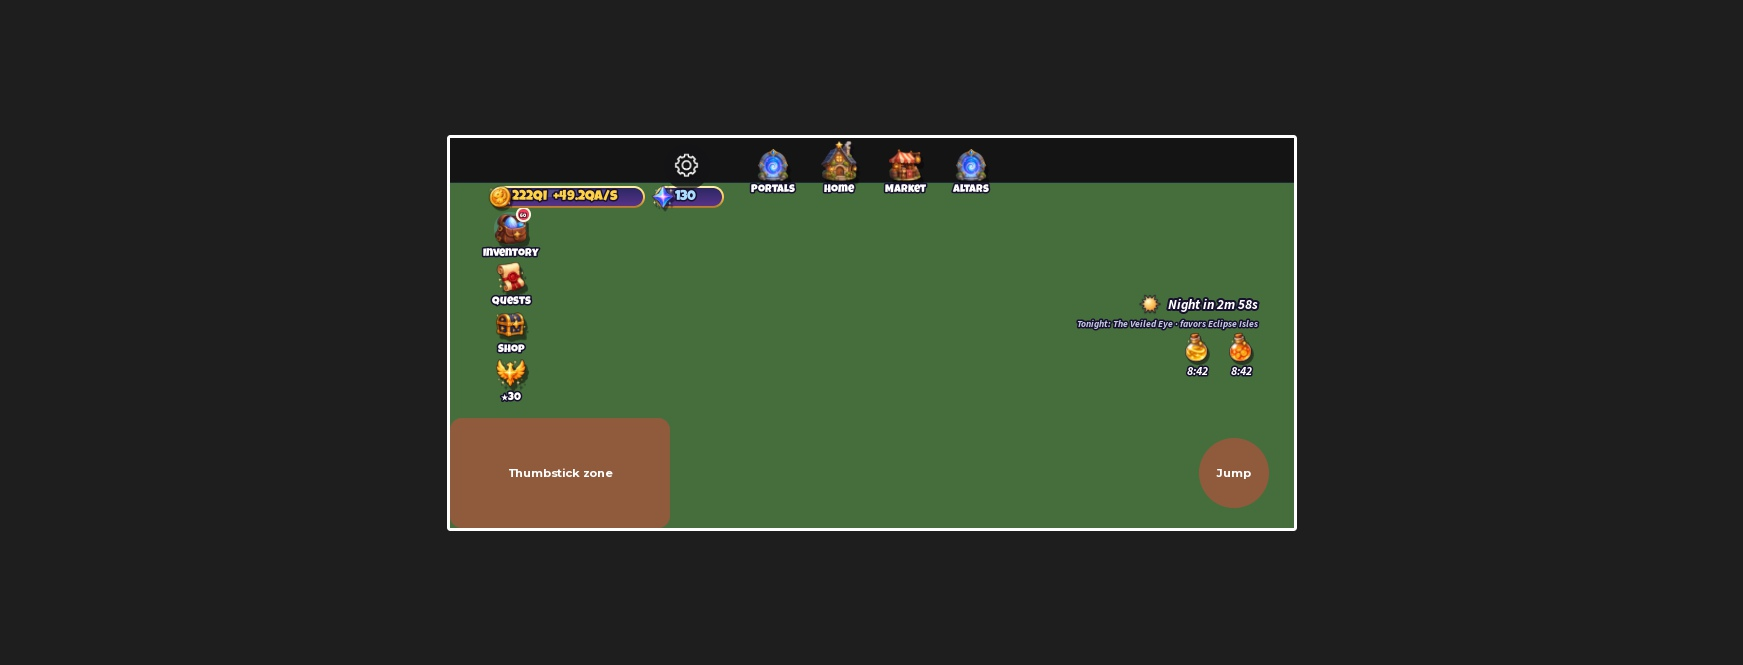
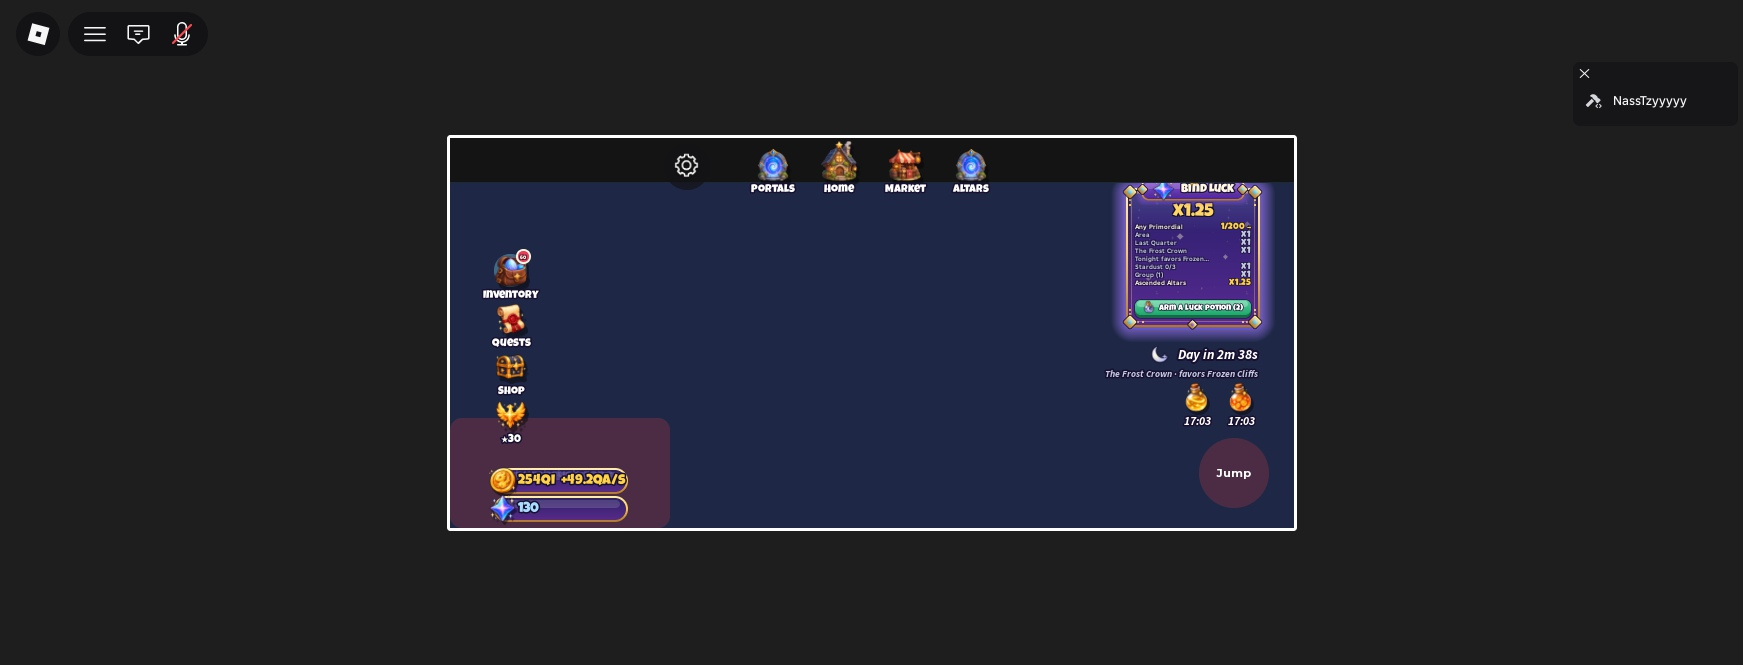
HUD: phone layout identical to PC (menu left-center, currency bottom-left stack, luck panel right), scaled down

Changed region(s): [[0.2478, 0.2707, 0.7435, 0.812], [0.0, 0.0301, 0.1239, 0.0602], [0.9294, 0.1504, 0.9604, 0.1805]]

diff --git a/CLAUDE.md b/CLAUDE.md
@@ -62,7 +62,7 @@ _Update this section as work progresses._
 | Weekly Spire leaderboard | Proposed (weekly update) |
 | Weekly event constellation (event-only dragon, single model) | Proposed (weekly update) |
 | Ascension (second prestige) | Proposed (design only, post-launch) |
-| UI | **HUD layout (2026-10-02, supersedes any older text below about the sky pill, bottom navigation or portrait):** landscape only; travel row top-center (Portals | Home | Market (+ Altars)); the 4 menu icons on the left (Inventory, Quests, Shop, Rebirth) with a `Sizes.LeftMargin` (64, phone 36) margin; currency pills bottom-left (phone: top row); **bottom-right timer stack** (`HudLayout.GetTimerStack`, `Sizes.RightMargin` 64 / phone 36, above the jump button on phones): the day/night timer row (`UI/TimerRow`: sun/moon icon + bold italic white text with a dark outline, no background, "Night in 1m 42s", gold at dusk) with a small caption under it ("Tonight: The Veiled Eye · favors Eclipse Isles", `DayNightController`, `Text.SkyHud`), then the potion timers as a horizontal row (icon with the time under each, `BoostController`); bottom-center stays free for the Dragon Hotbar. The sky pill and `UI/SkyPill` are gone. Every gui uses `ScreenInsets.CoreUISafeInsets` (travel row and top-bar buttons None); `HudLayout.GetUsableRect()` is the safe rect in screen pixels (the probe's own AbsolutePosition is inset-local, so the top-left `GuiService:GetGuiInset()` is added). Windows start under the travel row (`HudLayout.TopReserved`). Odds: pop-up lines are whole numbers (`OddsText.OneIn`), exact decimals only in the tap-for-details breakdown (`OddsText.OneInExact`). **UI renewal done** (master prompt 2026-09-28, checkpoints: 1 HUD, 2 windows, 3 world UI). **UI renewal part 2 done** (2026-09-29/30, style sheet approved; checkpoints: 1 top bar + notifications, 2 Inventory + windows, 3 Spire HUD + world UI). **Checkpoint 3:** the Spire card is a compact battle HUD at the bottom center (`SpireController`, sizes `UITheme.Sizes.Spire*`, motion `UITheme.Motion.Spire*`, words `Text.Spire`): a big floor badge on its top edge ("Floor 40", gold BOSS tag on boss floors) with the record small under it, your dragon's portrait vs the enemy's (`UI/DragonPicture`, VS in the middle) each with a health bar that drains over the fight (the server already decided the winner; the attacker lunges, the defender flinches, off with Low effects), no text log: each cleared floor pops a "Floor 39 cleared!" chip (first clears sparkle) and the drops fly as icons into the Inventory button (`HudLayout.GetMenuButton`; never the toast queue); Stop = small rose button, Hide (–) minimizes to a small floor badge (tap = open again); between climbs: your best dragon + Climb / Elevator. `SpireUpdate` now also sends `SpeciesId`/`Level`/`EnemyId` (Fight) and `Reward`/`Gold` (Won). Phones: the same HUD at `PhoneSpireScale`, bottom center between the thumbstick and jump. One thing at a time at stations: a station's board hides while its own prompt shows, and your own ★ badge hides while any prompt shows or near a Spire/merchant board (`StationFXController`, `WorldUI.Stations.HideBoardWithPrompt`/`BadgeHideRange`). Boards: "Best floor N" / "5 Stardust" + price. World panels get the faint sparkle pattern. Long toasts shrink their text to fit (never clip); tooltips hide when their target hides. **Checkpoint 2:** Dragons tab (`InventoryController`): cards tinted + glowing in the rarity color with a picture (`UI/DragonPicture`), rarity icon + level, name, "Rarity · Element", income big, ONE Upgrade button with the cost (tap = +1, hold = keeps buying 1 → 5 → 25 levels per request, `UITheme.Motion.Upgrade*`, above DragonService's 0.1 s limit), a small In roost / Resting switch; power/trait/grade in the tooltip; header "Equip best" = new `EquipBest` remote (`RoostService.onEquipBest`: no arguments, 1 s rate limit, ranks by gold/sec, fills up to the slot count, clears the equipped dragons' "taken out" marks, toast `Text.Dragons.Equipped`). Potions tab: big cards (picture, count badge, one line, status, one button; Arm = jade). Collection: header card (income bonus big, found count, milestone bar; rules in the tooltip), bigger rarity-tinted cells, Star Atlas chips. Quests: bigger streak days (today gold, claimed jade), title-font quests with bigger rewards/bars. Shop: 2x2 big cards (short line `Text.Shop.Short`, full description in the tooltip). Luck panel: one row per factor (x1 dimmed). Rune Shrine / Forge rows show the dragon's picture; button "Inscribe · 1" with the rune/stone icon. Settings rows in the title font. Currency pills violet with a gold border; red badges brighter and pop on change; progress bars gold-rimmed and glossy. Phone cards drawn at `Sizes.PhoneCardScale`. Windows use the full height below the top bar (up to their MaxSize). Part 2 kit: panels are indigo -> violet (`Colors.PanelV2*`) with a faint sparkle pattern (`Art.PanelPattern`) and a soft outer glow (`Style.Glow`, `Art.Glow` 9-sliced); the banner's dark ribbon ends are gone (gold end gems + glow); chunky 3D buttons (`UI/Button`: face on a darker bottom edge, bounce/squish, Luckiest Guy label; jade = go/buy, gold = upgrade, rose = stop/close, blue = neutral, grey = disabled); cards tinted + glowing in their accent (`Style.CardLook`), tabs `Style.TabLook`; windows fade + pop in. Art sources `tools/ui_art/gen.py` -> `assets/ui/` (sparkles, glow, rays, stand-in sun/moon). **Top bar:** travel buttons get equal slots (`Sizes.TravelSlot`, labels never clip); the sky pill (`UI/SkyPill`, `DayNightController`) sits under them with a gap (`HudLayout.SkyPillTop`): big sun/moon, "Night in 3:31" big, at night a small constellation + favored-area line, a thin progress bar, glows/pulses in the dusk-warning seconds (wording `Text.SkyHud` Big*/Small*). Windows (`HudLayout.layoutPopups`) and toasts start below `HudLayout.TopReserved()` (top bar + pill), so they never cover them; the travel row and pill stay visible on phones. **Notifications** (`NotificationController`): one toast queue (at most `UITheme.Toasts.MaxVisible` = 2 on screen, the same text merges into "x3" and restarts, announcements/rewards/errors jump the queue); toasts are pills with a big icon (`UI/Toast`). Big moments show a centered reward pop-up (`UI/RewardPopup`: turning rays, banner, big picture (`UI/DragonPicture`: the dragon's model in a ViewportFrame, or its rarity icon), name, tag chip, "Awesome!", sparkle burst; one at a time, queued; closes by itself after 8 s; the dim leaves the top bar clear): new dragon (bind, starter), evolution, rebirth, sanctuary tier, rare constellation. The server sends them as `Notify(player, text, "moment", payload)` / `Announcement(text, payload)` with `payload.Moment` (DragonService, RebirthService, DayNightService); the client also calls `NotificationController:Moment` (BindingController, SanctuaryTierController). Wording `Text.Moments`. Low effects: fewer sparkles, no turning rays. HUD now: big standalone icons with a drop shadow and a Luckiest Guy label (`UI/HudIcon`: hover bounce + glow, press squish, tap sparkles, red badge, pulse, "ready" = gold glow + hop + sparkle ring + READY! tag, calm = progress ring of dots). Left column (`HudLayout`, `UITheme.Menu`): Inventory, Quests, Shop, Rebirth (READY! when affordable, else % to the next rebirth). **Inventory** = one window with tabs (`InventoryWindow`, `UITheme.InventoryTabs`): Dragons (`InventoryController`), Potions (`BoostController`), Items (`ItemsController`: Wyrm Runes, Dragonstones, Stardust; wording `Config/Text.Items`), Collection (`IndexController`: Index + Star Atlas); tab badges add up on the Inventory icon. Settings = a gear right after Roblox's own top-bar buttons (`HudLayout.AddTopbarButton`, lined up with `GuiService.TopbarInset`; Roblox's own settings image). Top-center: the travel row and under it the slim day/night pill (`DayNightController`, `Text.SkyHud` Pill*). Bottom-right: active potions as their own icons with the time under each (tap = Potions tab; phones: above the jump button, max `PhoneMaxTimers` then "+N"). Currency pills restyled (big icon over a translucent bar, title-font value): bottom-left on PC, one row under the top bar on phones. HUD sizes/motion in `UITheme.Sizes` (HudIcon..., Travel..., SkyPill, PotionTimer) and `UITheme.Motion` (Icon..., Ready..., ProgressDots). Painted icons for Inventory (satchel), Home (cottage), Portals, Market (tent), Items and Collection (star atlas) in `UITheme.Icons` (sheet `assets/new_icons.png`, cut to `assets/icons/`). **Windows (checkpoint 2):** one frame for every window and station panel (`Style.PanelLook`): navy glass (`Colors.Glass*`, `GlassTransparency`) with a soft light across the top, a gold border shaded light to dark (`Style.GoldBorder`) with a thin gold line inside, a gold diamond with a jewel on each corner plus gold beads (`Style.Ornament`), a small ornament mid-bottom, sparkles. `UI/Window`: a jewel title banner (`UI/Banner`: amethyst ribbon, gold border, ribbon ends, a slowly wobbling gold star on top, the painted icon popping out on the left, title in Luckiest Guy) hangs on the top edge; a big round ruby close button on the top-right corner (the X turns on hover); pop-in plus a sparkle burst out of the banner (`Style.SparkleBurst`). Sizes in `UITheme.Sizes` (Border, CornerOrnament, Banner, BannerStar, CloseButton, WindowPadding...), motion in `UITheme.Motion` (OpenSparkles, BannerStarSpin, CloseHoverTurn). Cards (`Style.CardLook`) are a lighter glass with a soft gold outline; buttons have a glossy top; Inventory tabs are navy glass, the open one amethyst with a gold border; toasts are navy glass with a gold border (under the day/night pill on PC). The Luck panel and the Spire card carry the same banner ("Bind Luck" with the luck total big under it; "Dragon Spire"). The Rebirth window is a big ★ heading, a cost card (gold icon, bar toward the cost), reward chips (income, level cap, new area) and big Rebirth! / Not yet buttons (wording `Config/Text.Rebirth`). The Rune Shrine / Dragonstone Forge window has two columns: dragons (rarity icon, level, current trait/grade) and the rune/stone count, the chosen dragon, a big button and a grid of chances colored by tier (`Text.RuneShrine/DragonstoneForge` Owned/Chances). Settings uses sliding switches. The binding ceremony shows the dragon's name on a rarity-colored banner with a Rarity · Element tag and sparkles (lower middle of the screen). Phones: windows are 94% x 88% of the screen, and while one is open the menu, currencies, travel row and day/night pill hide (`HudLayout.HideWithPopups`). **World UI (checkpoint 3):** the window look made small (`Style.WorldPanel`, `UITheme.WorldPanel`: navy glass, gold border, gold diamonds on the ends, optional little star on top; `Style.Outline` = title-font text with a dark outline). Prompts (`PromptController`): a round amethyst key badge with a gold ring that fills gold while held, the action in the title font, a bounce on appear and sparkles when used. Boards (`UI/WorldBoard`: stand levels, rune/stone counts, merchant price, Spire record) have the star on top and the icon popping out; the upgrade stand's board hides while its own buy prompt shows (`UpgradeStandController`, so it never covers the E prompt), and the two stand boards sit 6 studs out from the gate's center line (`WorldUI.UpgradeStands.BoardSideOffset`). Owner banners (`RoostFXController`), portal names (above the arch art) and the portal lock use the same panel; "+gold" pops, dragon nameplates and the ★ rebirth badge use the title font with an outline (`RoostService`, `RebirthService`). Themed UI kit. Look (Kyle's jewel-tone restyle, 2026-09-27): jade/rose/stargold/dusk-blue buttons with an antique-gold outline that lights up on hover, menu tiles on one twilight surface with a thin colored stripe, warm-white text; toasts draw above windows. World text: `UITheme.WorldLabels` (every BillboardGui: 40-stud MaxDistance, 80 for the ★ rebirth badge, not AlwaysOnTop, sizes); empty roost signs are hidden. Designer-editable wording in `Config/Text` (station words, results, tips; `Text.Format` fills `{placeholders}`). `Config/UITheme` holds every color (incl. per rarity/element), font (Luckiest Guy titles, Builder Sans body), size, motion timing, sound ID, icon ID and art slot; empty icon = styled fallback tile, empty sound = silent, empty art slot = procedural look. Kit in `Controllers/UI` (Style, Icon, Button, IconButton, Window, ProgressBar, Toast, Tooltip, CurrencyPill, RarityTag, RewardRow); every panel uses it. `HudLayout`: menu tiles, currency pills, popups (Windows register themselves), `OnLayoutChanged`; one window at a time (`ClaimFocus`/`ReleaseFocus`: every Window, and station panels via `TrackPanel`, close whatever else is open; clicking a menu tile again closes its window). Phones show at most `UITheme.PhoneMaxTimers` boost timers, then a "+N" chip that opens Boosts. The Dragons panel keeps its cards and only writes changed values. PC = icon grid left-middle + currency bottom-left; phone (short side ≤ 500 px) = same grid smaller in 3 columns (`PhoneMenuColumns`, clear of the thumbstick), currency top-left, luck pill + boost timers top-right, Spire card top-center; thumbstick/jump corners stay clear. Landscape only. ScreenGuis use Sibling ZIndex. Studio test: LocalPlayer attribute `ForceLayout` = "Phone"/"PC"; `ReplicatedStorage.DevTools.PhoneMock` (Studio only, not in Git) renders the UI in a phone frame. Shop cards use the pass icons (`UITheme.ShopIcons`). Waiting on art: panel frame (dragon scales), title ornament, panel texture |
+| UI | **HUD layout (2026-10-02, supersedes any older text below about the sky pill, bottom navigation or portrait):** landscape only; travel row top-center (Portals | Home | Market (+ Altars)); the 4 menu icons on the left, vertically centered (Inventory, Quests, Shop, Rebirth) with a `Sizes.LeftMargin` (64, phone 36) margin; currency pills stacked bottom-left; **phones use exactly the same arrangement, just smaller** (the Bind Luck panel is the PC panel at 0.5 scale, from the top on phones so it clears the timers); **bottom-right timer stack** (`HudLayout.GetTimerStack`, `Sizes.RightMargin` 64 / phone 36, above the jump button on phones): the day/night timer row (`UI/TimerRow`: sun/moon icon + bold italic white text with a dark outline, no background, "Night in 1m 42s", gold at dusk) with a small caption under it ("Tonight: The Veiled Eye · favors Eclipse Isles", `DayNightController`, `Text.SkyHud`), then the potion timers as a horizontal row (icon with the time under each, `BoostController`); bottom-center stays free for the Dragon Hotbar. The sky pill and `UI/SkyPill` are gone. Every gui uses `ScreenInsets.CoreUISafeInsets` (travel row and top-bar buttons None); `HudLayout.GetUsableRect()` is the safe rect in screen pixels (the probe's own AbsolutePosition is inset-local, so the top-left `GuiService:GetGuiInset()` is added). Windows start under the travel row (`HudLayout.TopReserved`). Odds: pop-up lines are whole numbers (`OddsText.OneIn`), exact decimals only in the tap-for-details breakdown (`OddsText.OneInExact`). **UI renewal done** (master prompt 2026-09-28, checkpoints: 1 HUD, 2 windows, 3 world UI). **UI renewal part 2 done** (2026-09-29/30, style sheet approved; checkpoints: 1 top bar + notifications, 2 Inventory + windows, 3 Spire HUD + world UI). **Checkpoint 3:** the Spire card is a compact battle HUD at the bottom center (`SpireController`, sizes `UITheme.Sizes.Spire*`, motion `UITheme.Motion.Spire*`, words `Text.Spire`): a big floor badge on its top edge ("Floor 40", gold BOSS tag on boss floors) with the record small under it, your dragon's portrait vs the enemy's (`UI/DragonPicture`, VS in the middle) each with a health bar that drains over the fight (the server already decided the winner; the attacker lunges, the defender flinches, off with Low effects), no text log: each cleared floor pops a "Floor 39 cleared!" chip (first clears sparkle) and the drops fly as icons into the Inventory button (`HudLayout.GetMenuButton`; never the toast queue); Stop = small rose button, Hide (–) minimizes to a small floor badge (tap = open again); between climbs: your best dragon + Climb / Elevator. `SpireUpdate` now also sends `SpeciesId`/`Level`/`EnemyId` (Fight) and `Reward`/`Gold` (Won). Phones: the same HUD at `PhoneSpireScale`, bottom center between the thumbstick and jump. One thing at a time at stations: a station's board hides while its own prompt shows, and your own ★ badge hides while any prompt shows or near a Spire/merchant board (`StationFXController`, `WorldUI.Stations.HideBoardWithPrompt`/`BadgeHideRange`). Boards: "Best floor N" / "5 Stardust" + price. World panels get the faint sparkle pattern. Long toasts shrink their text to fit (never clip); tooltips hide when their target hides. **Checkpoint 2:** Dragons tab (`InventoryController`): cards tinted + glowing in the rarity color with a picture (`UI/DragonPicture`), rarity icon + level, name, "Rarity · Element", income big, ONE Upgrade button with the cost (tap = +1, hold = keeps buying 1 → 5 → 25 levels per request, `UITheme.Motion.Upgrade*`, above DragonService's 0.1 s limit), a small In roost / Resting switch; power/trait/grade in the tooltip; header "Equip best" = new `EquipBest` remote (`RoostService.onEquipBest`: no arguments, 1 s rate limit, ranks by gold/sec, fills up to the slot count, clears the equipped dragons' "taken out" marks, toast `Text.Dragons.Equipped`). Potions tab: big cards (picture, count badge, one line, status, one button; Arm = jade). Collection: header card (income bonus big, found count, milestone bar; rules in the tooltip), bigger rarity-tinted cells, Star Atlas chips. Quests: bigger streak days (today gold, claimed jade), title-font quests with bigger rewards/bars. Shop: 2x2 big cards (short line `Text.Shop.Short`, full description in the tooltip). Luck panel: one row per factor (x1 dimmed). Rune Shrine / Forge rows show the dragon's picture; button "Inscribe · 1" with the rune/stone icon. Settings rows in the title font. Currency pills violet with a gold border; red badges brighter and pop on change; progress bars gold-rimmed and glossy. Phone cards drawn at `Sizes.PhoneCardScale`. Windows use the full height below the top bar (up to their MaxSize). Part 2 kit: panels are indigo -> violet (`Colors.PanelV2*`) with a faint sparkle pattern (`Art.PanelPattern`) and a soft outer glow (`Style.Glow`, `Art.Glow` 9-sliced); the banner's dark ribbon ends are gone (gold end gems + glow); chunky 3D buttons (`UI/Button`: face on a darker bottom edge, bounce/squish, Luckiest Guy label; jade = go/buy, gold = upgrade, rose = stop/close, blue = neutral, grey = disabled); cards tinted + glowing in their accent (`Style.CardLook`), tabs `Style.TabLook`; windows fade + pop in. Art sources `tools/ui_art/gen.py` -> `assets/ui/` (sparkles, glow, rays, stand-in sun/moon). **Top bar:** travel buttons get equal slots (`Sizes.TravelSlot`, labels never clip); the sky pill (`UI/SkyPill`, `DayNightController`) sits under them with a gap (`HudLayout.SkyPillTop`): big sun/moon, "Night in 3:31" big, at night a small constellation + favored-area line, a thin progress bar, glows/pulses in the dusk-warning seconds (wording `Text.SkyHud` Big*/Small*). Windows (`HudLayout.layoutPopups`) and toasts start below `HudLayout.TopReserved()` (top bar + pill), so they never cover them; the travel row and pill stay visible on phones. **Notifications** (`NotificationController`): one toast queue (at most `UITheme.Toasts.MaxVisible` = 2 on screen, the same text merges into "x3" and restarts, announcements/rewards/errors jump the queue); toasts are pills with a big icon (`UI/Toast`). Big moments show a centered reward pop-up (`UI/RewardPopup`: turning rays, banner, big picture (`UI/DragonPicture`: the dragon's model in a ViewportFrame, or its rarity icon), name, tag chip, "Awesome!", sparkle burst; one at a time, queued; closes by itself after 8 s; the dim leaves the top bar clear): new dragon (bind, starter), evolution, rebirth, sanctuary tier, rare constellation. The server sends them as `Notify(player, text, "moment", payload)` / `Announcement(text, payload)` with `payload.Moment` (DragonService, RebirthService, DayNightService); the client also calls `NotificationController:Moment` (BindingController, SanctuaryTierController). Wording `Text.Moments`. Low effects: fewer sparkles, no turning rays. HUD now: big standalone icons with a drop shadow and a Luckiest Guy label (`UI/HudIcon`: hover bounce + glow, press squish, tap sparkles, red badge, pulse, "ready" = gold glow + hop + sparkle ring + READY! tag, calm = progress ring of dots). Left column (`HudLayout`, `UITheme.Menu`): Inventory, Quests, Shop, Rebirth (READY! when affordable, else % to the next rebirth). **Inventory** = one window with tabs (`InventoryWindow`, `UITheme.InventoryTabs`): Dragons (`InventoryController`), Potions (`BoostController`), Items (`ItemsController`: Wyrm Runes, Dragonstones, Stardust; wording `Config/Text.Items`), Collection (`IndexController`: Index + Star Atlas); tab badges add up on the Inventory icon. Settings = a gear right after Roblox's own top-bar buttons (`HudLayout.AddTopbarButton`, lined up with `GuiService.TopbarInset`; Roblox's own settings image). Top-center: the travel row and under it the slim day/night pill (`DayNightController`, `Text.SkyHud` Pill*). Bottom-right: active potions as their own icons with the time under each (tap = Potions tab; phones: above the jump button, max `PhoneMaxTimers` then "+N"). Currency pills restyled (big icon over a translucent bar, title-font value): bottom-left on PC, one row under the top bar on phones. HUD sizes/motion in `UITheme.Sizes` (HudIcon..., Travel..., SkyPill, PotionTimer) and `UITheme.Motion` (Icon..., Ready..., ProgressDots). Painted icons for Inventory (satchel), Home (cottage), Portals, Market (tent), Items and Collection (star atlas) in `UITheme.Icons` (sheet `assets/new_icons.png`, cut to `assets/icons/`). **Windows (checkpoint 2):** one frame for every window and station panel (`Style.PanelLook`): navy glass (`Colors.Glass*`, `GlassTransparency`) with a soft light across the top, a gold border shaded light to dark (`Style.GoldBorder`) with a thin gold line inside, a gold diamond with a jewel on each corner plus gold beads (`Style.Ornament`), a small ornament mid-bottom, sparkles. `UI/Window`: a jewel title banner (`UI/Banner`: amethyst ribbon, gold border, ribbon ends, a slowly wobbling gold star on top, the painted icon popping out on the left, title in Luckiest Guy) hangs on the top edge; a big round ruby close button on the top-right corner (the X turns on hover); pop-in plus a sparkle burst out of the banner (`Style.SparkleBurst`). Sizes in `UITheme.Sizes` (Border, CornerOrnament, Banner, BannerStar, CloseButton, WindowPadding...), motion in `UITheme.Motion` (OpenSparkles, BannerStarSpin, CloseHoverTurn). Cards (`Style.CardLook`) are a lighter glass with a soft gold outline; buttons have a glossy top; Inventory tabs are navy glass, the open one amethyst with a gold border; toasts are navy glass with a gold border (under the day/night pill on PC). The Luck panel and the Spire card carry the same banner ("Bind Luck" with the luck total big under it; "Dragon Spire"). The Rebirth window is a big ★ heading, a cost card (gold icon, bar toward the cost), reward chips (income, level cap, new area) and big Rebirth! / Not yet buttons (wording `Config/Text.Rebirth`). The Rune Shrine / Dragonstone Forge window has two columns: dragons (rarity icon, level, current trait/grade) and the rune/stone count, the chosen dragon, a big button and a grid of chances colored by tier (`Text.RuneShrine/DragonstoneForge` Owned/Chances). Settings uses sliding switches. The binding ceremony shows the dragon's name on a rarity-colored banner with a Rarity · Element tag and sparkles (lower middle of the screen). Phones: windows are 94% x 88% of the screen, and while one is open the menu, currencies, travel row and day/night pill hide (`HudLayout.HideWithPopups`). **World UI (checkpoint 3):** the window look made small (`Style.WorldPanel`, `UITheme.WorldPanel`: navy glass, gold border, gold diamonds on the ends, optional little star on top; `Style.Outline` = title-font text with a dark outline). Prompts (`PromptController`): a round amethyst key badge with a gold ring that fills gold while held, the action in the title font, a bounce on appear and sparkles when used. Boards (`UI/WorldBoard`: stand levels, rune/stone counts, merchant price, Spire record) have the star on top and the icon popping out; the upgrade stand's board hides while its own buy prompt shows (`UpgradeStandController`, so it never covers the E prompt), and the two stand boards sit 6 studs out from the gate's center line (`WorldUI.UpgradeStands.BoardSideOffset`). Owner banners (`RoostFXController`), portal names (above the arch art) and the portal lock use the same panel; "+gold" pops, dragon nameplates and the ★ rebirth badge use the title font with an outline (`RoostService`, `RebirthService`). Themed UI kit. Look (Kyle's jewel-tone restyle, 2026-09-27): jade/rose/stargold/dusk-blue buttons with an antique-gold outline that lights up on hover, menu tiles on one twilight surface with a thin colored stripe, warm-white text; toasts draw above windows. World text: `UITheme.WorldLabels` (every BillboardGui: 40-stud MaxDistance, 80 for the ★ rebirth badge, not AlwaysOnTop, sizes); empty roost signs are hidden. Designer-editable wording in `Config/Text` (station words, results, tips; `Text.Format` fills `{placeholders}`). `Config/UITheme` holds every color (incl. per rarity/element), font (Luckiest Guy titles, Builder Sans body), size, motion timing, sound ID, icon ID and art slot; empty icon = styled fallback tile, empty sound = silent, empty art slot = procedural look. Kit in `Controllers/UI` (Style, Icon, Button, IconButton, Window, ProgressBar, Toast, Tooltip, CurrencyPill, RarityTag, RewardRow); every panel uses it. `HudLayout`: menu tiles, currency pills, popups (Windows register themselves), `OnLayoutChanged`; one window at a time (`ClaimFocus`/`ReleaseFocus`: every Window, and station panels via `TrackPanel`, close whatever else is open; clicking a menu tile again closes its window). Phones show at most `UITheme.PhoneMaxTimers` boost timers, then a "+N" chip that opens Boosts. The Dragons panel keeps its cards and only writes changed values. PC = icon grid left-middle + currency bottom-left; phone (short side ≤ 500 px) = same grid smaller in 3 columns (`PhoneMenuColumns`, clear of the thumbstick), currency top-left, luck pill + boost timers top-right, Spire card top-center; thumbstick/jump corners stay clear. Landscape only. ScreenGuis use Sibling ZIndex. Studio test: LocalPlayer attribute `ForceLayout` = "Phone"/"PC"; `ReplicatedStorage.DevTools.PhoneMock` (Studio only, not in Git) renders the UI in a phone frame. Shop cards use the pass icons (`UITheme.ShopIcons`). Waiting on art: panel frame (dragon scales), title ornament, panel texture |
 | Ranked PvP | Post-launch |
 
 **Next up: approved build order** (full numbers in `docs/Economy_Rebalance_Proposal_v5.md`,
